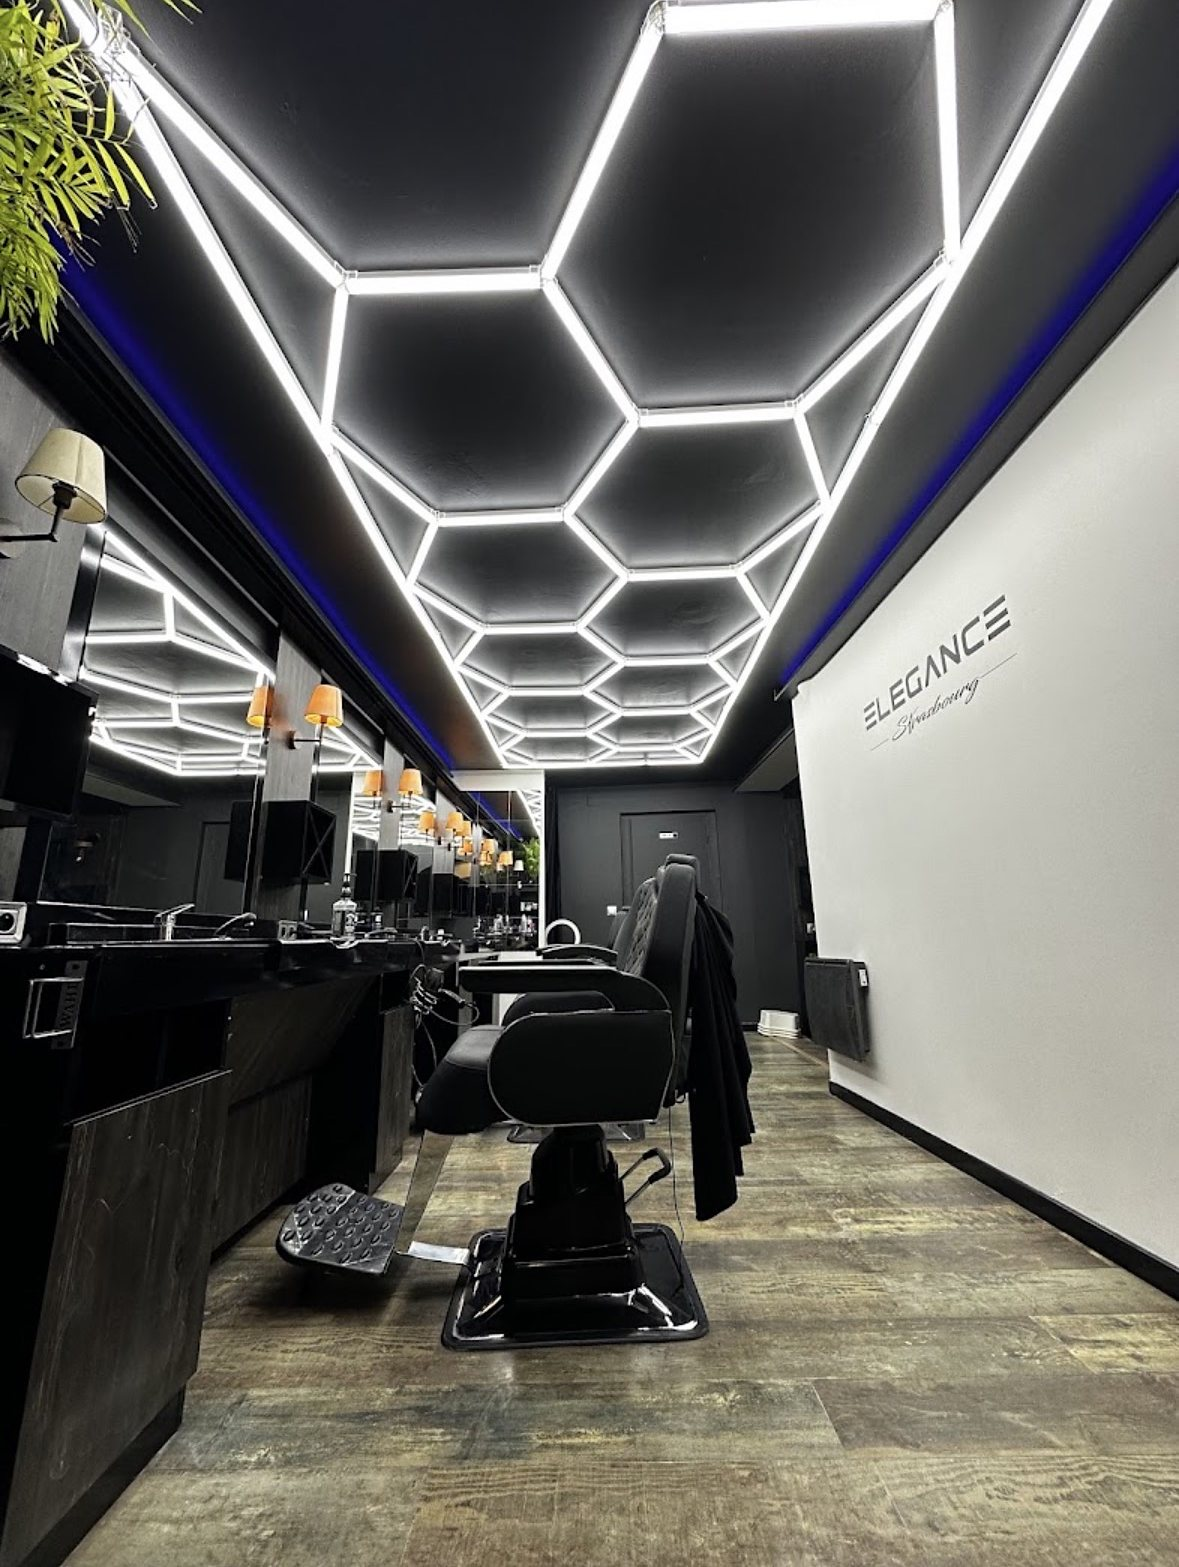
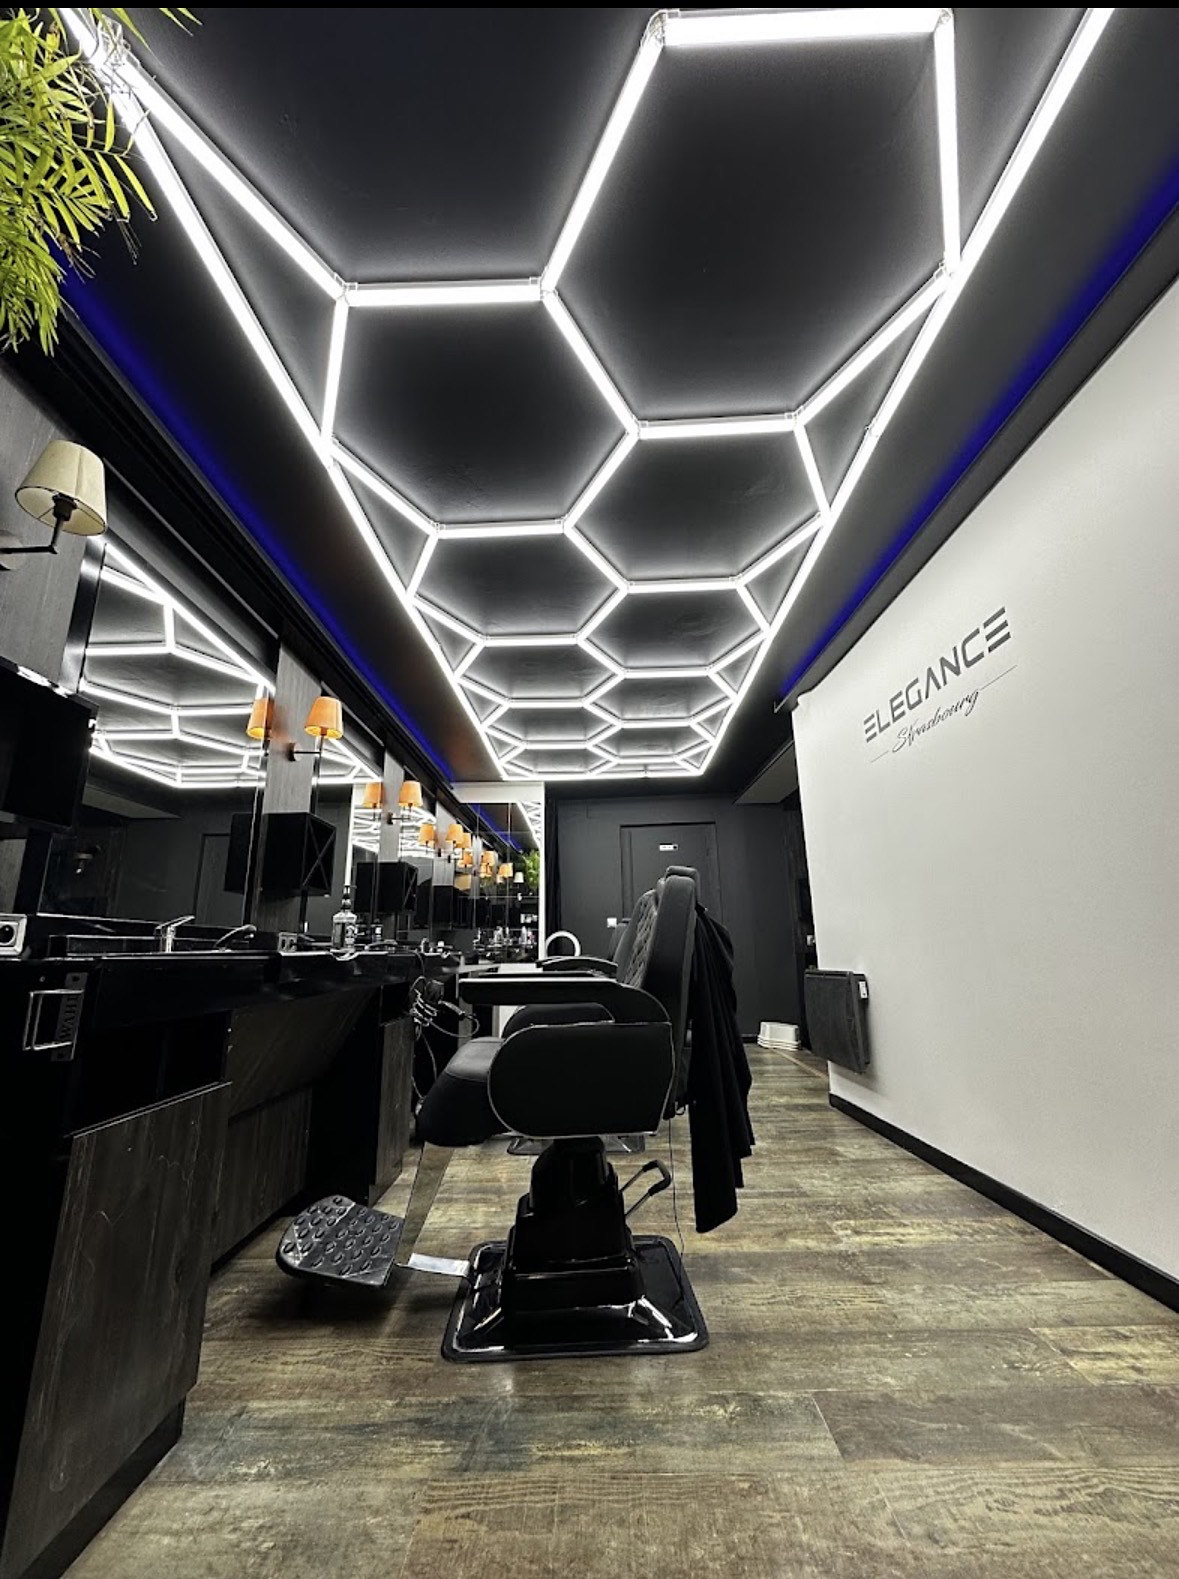
Plus sobre et plus fluide : photos HD, transition marquée, défilement adouci
- Photos des prestations refaites depuis les originaux (1200x1500,
  filigranes effacés, réduction du bruit, netteté) ; salon en pleine
  résolution.
- Transition accueil -> prestations plus marquée : la vidéo se réduit
  davantage (carte arrondie) avant d'être recouverte.
- Boutons et sélections en blanc cassé, violet réservé aux détails ;
  lien « Accueil » retiré du menu.
- Fluidité : défilement adouci (Lenis) à la molette, fonds flous calculés
  à l'avance, assombrissement des bandes par calque au lieu de filtres,
  en-tête sans flou d'arrière-plan.

Claude-Session: https://claude.ai/code/session_01GNP9iCmSgibcJGnuJqLZRc

diff --git a/styles.css b/styles.css
@@ -33,9 +33,14 @@
   --section: clamp(96px, 11vw, 160px);
 }
 
+/* ---------- Défilement adouci (Lenis) ---------- */
+html.lenis, html.lenis body { height: auto; }
+.lenis.lenis-smooth { scroll-behavior: auto !important; }
+.lenis.lenis-stopped { overflow: hidden; }
+
 /* ---------- Base ---------- */
 *, *::before, *::after { box-sizing: border-box; margin: 0; padding: 0; }
-html { scroll-behavior: smooth; -webkit-text-size-adjust: 100%; scroll-padding-top: 80px; }
+html { scroll-behavior: auto; -webkit-text-size-adjust: 100%; scroll-padding-top: 80px; }
 body { background: var(--bg); color: var(--cream); font-family: var(--sans); font-size: 17px; line-height: 1.55; -webkit-font-smoothing: antialiased; overflow-x: hidden; }
 a { color: inherit; text-decoration: none; }
 ul, ol { list-style: none; }
@@ -58,10 +63,10 @@ button { background: none; border: 0; cursor: pointer; }
 
 /* ---------- Boutons ---------- */
 .btn { display: inline-flex; align-items: center; justify-content: center; gap: .55rem; min-height: 50px; padding: .8rem 1.6rem; border-radius: 999px; font-size: .95rem; font-weight: 500; white-space: nowrap; transition: background .35s, color .35s, border-color .35s, transform .35s var(--ease); }
-.btn--gold { background: var(--gold); color: var(--gold-ink); }
-.btn--gold:hover { background: #b289ff; transform: translateY(-1px); }
-.btn--line { border: 1px solid rgba(157, 107, 255, .7); color: var(--gold-2); background: rgba(9, 9, 11, .25); backdrop-filter: blur(6px); -webkit-backdrop-filter: blur(6px); }
-.btn--line:hover { background: var(--gold); border-color: var(--gold); color: var(--gold-ink); }
+.btn--gold { background: var(--cream); color: #0b0b0d; }
+.btn--gold:hover { background: #fff; transform: translateY(-1px); }
+.btn--line { border: 1px solid rgba(244, 243, 247, .45); color: var(--cream); background: rgba(9, 9, 11, .2); }
+.btn--line:hover { background: var(--cream); border-color: var(--cream); color: #0b0b0d; }
 .btn span { transition: transform .35s var(--ease); }
 .btn:hover span { transform: translateX(3px); }
 
@@ -74,7 +79,7 @@ button { background: none; border: 0; cursor: pointer; }
 
 /* ---------- En-tête ---------- */
 .header { position: fixed; z-index: 40; left: 0; right: 0; top: 0; padding-top: env(safe-area-inset-top, 0px); transition: background .5s, border-color .5s; border-bottom: 1px solid transparent; }
-.header.is-solid { background: rgba(9, 9, 11, .78); backdrop-filter: blur(16px); -webkit-backdrop-filter: blur(16px); border-bottom-color: var(--line); }
+.header.is-solid { background: rgba(9, 9, 11, .9); border-bottom-color: var(--line); }
 .header__bar { max-width: 1320px; margin-inline: auto; display: flex; align-items: center; justify-content: space-between; gap: 1.5rem; min-height: 84px; padding-left: var(--gutter); padding-right: var(--gutter-r); transition: min-height .5s var(--ease); }
 .header.is-solid .header__bar { min-height: 70px; }
 .nav { display: flex; gap: 2.4rem; }
@@ -114,7 +119,7 @@ button { background: none; border: 0; cursor: pointer; }
 .hero__script { font-family: var(--script); font-size: clamp(2rem, 3.6vw, 3.3rem); line-height: 1; color: var(--gold); margin-top: clamp(.2rem, 1vh, .6rem); }
 .hero__rule { display: block; width: 64px; height: 1px; margin: clamp(1.4rem, 3vh, 2rem) 0; background: var(--gold); }
 .hero__tag { font-family: var(--serif); font-style: italic; font-size: clamp(1.5rem, 2.4vw, 2.1rem); line-height: 1.2; color: var(--cream); }
-.hero__caps { margin-top: 1.2rem; font-family: var(--serif); font-weight: 500; font-size: .95rem; letter-spacing: .42em; margin-right: -.42em; text-transform: uppercase; color: var(--gold-2); }
+.hero__caps { margin-top: 1.2rem; font-family: var(--serif); font-weight: 500; font-size: .95rem; letter-spacing: .42em; margin-right: -.42em; text-transform: uppercase; color: rgba(244, 243, 247, .62); }
 .hero__caps i { font-style: normal; margin-inline: .2em; opacity: .7; }
 .hero__scroll { z-index: 1; position: absolute; left: 50%; bottom: clamp(18px, 4vh, 36px); translate: -50% 0; width: 1px; height: 54px; background: rgba(244, 243, 247, .2); overflow: hidden; }
 .hero__scroll span { position: absolute; left: 0; top: 0; width: 1px; height: 100%; background: var(--cream); animation: drip 2.4s var(--slow) infinite; }
@@ -137,7 +142,7 @@ button { background: none; border: 0; cursor: pointer; }
 
 /* Passage accueil -> prestations : l'accueil reste fixé et se resserre en carte
    pendant que les prestations montent par-dessus. */
-.hero-stage { position: relative; height: 200vh; height: 200svh; background: var(--bg); }
+.hero-stage { position: relative; height: 230vh; height: 230svh; background: var(--bg); }
 .hero-stage .hero { position: sticky; top: 0; }
 .hero__media { transform-origin: 50% 40%; overflow: hidden; will-change: transform, border-radius; }
 .hero__shade { position: absolute; inset: 0; z-index: 0; background: var(--bg); opacity: 0; pointer-events: none; }
@@ -145,7 +150,7 @@ button { background: none; border: 0; cursor: pointer; }
 .hero-stage + .strips-sec { margin-top: -100vh; margin-top: -100svh; z-index: 2; border-radius: 28px 28px 0 0; overflow: hidden; box-shadow: 0 -40px 90px rgba(0, 0, 0, .65); }
 .intro .strips-sec__title { transition: opacity 1.1s ease .2s, transform 1.2s var(--ease) .2s; }
 .intro .strips-sec:not(.is-in) .strips-sec__title { opacity: 0; transform: translateY(60px); }
-.intro .strip img { transition: transform 1.8s var(--slow), filter .9s; }
+.intro .strip img { transition: transform 1.8s var(--slow); }
 .intro .strips-sec:not(.is-in) .strip img { transform: scale(1.25); }
 .intro .strip__label { transition: opacity .9s ease calc(.3s + var(--k, 0) * 100ms); }
 .intro .strips-sec:not(.is-in) .strip__label { opacity: 0; }
@@ -159,12 +164,14 @@ button { background: none; border: 0; cursor: pointer; }
 .strip { position: relative; isolation: isolate; flex: 1 1 0; min-width: 0; overflow: hidden; cursor: pointer; border-right: 1px solid rgba(0, 0, 0, .6); transition: flex-grow .9s var(--slow); outline-offset: -3px; }
 .strip:last-child { border-right: 0; }
 .strip.is-on { flex-grow: 5.5; cursor: default; }
-.strip img { position: absolute; inset: 0; z-index: -2; width: 100%; height: 100%; object-fit: cover; transform: scale(1.08); filter: brightness(.55) saturate(.85); transition: transform 1.4s var(--slow), filter .9s; }
-.strip.is-on img { transform: scale(1); filter: brightness(.82) saturate(1); }
+.strip img { position: absolute; inset: 0; z-index: -3; width: 100%; height: 100%; object-fit: cover; transform: scale(1.08); transition: transform 1.4s var(--slow); }
+.strip::before { content: ""; position: absolute; inset: 0; z-index: -2; background: #09090b; opacity: .5; transition: opacity .9s; }
+.strip.is-on::before { opacity: .12; }
+.strip:not(.is-on):hover::before { opacity: .32; }
+.strip.is-on img { transform: scale(1); }
 .strip::after { content: ""; position: absolute; inset: 0; z-index: -1; background: linear-gradient(180deg, rgba(9, 9, 11, .55) 0%, rgba(9, 9, 11, 0) 30%, rgba(9, 9, 11, .1) 55%, rgba(9, 9, 11, .88) 100%); }
 .strip__label { position: absolute; left: 50%; bottom: 36px; writing-mode: vertical-rl; transform: translateX(-50%) rotate(180deg); white-space: nowrap; font-size: .98rem; font-weight: 500; transition: opacity .4s; }
 .strip.is-on .strip__label { opacity: 0; }
-.strip:not(.is-on):hover img { filter: brightness(.7) saturate(.95); }
 .strip__body { position: absolute; left: clamp(20px, 3.4vw, 48px); right: clamp(20px, 3vw, 40px); bottom: clamp(28px, 6vh, 64px); max-width: 520px; display: grid; justify-items: start; gap: .7rem; opacity: 0; transform: translateY(16px); transition: opacity .35s, transform .35s; pointer-events: none; }
 .strip.is-on .strip__body { opacity: 1; transform: none; transition: opacity .8s .35s, transform .9s var(--ease) .35s; pointer-events: auto; }
 .strip__title { font-weight: 300; font-size: clamp(2.2rem, 4.2vw, 3.9rem); line-height: 1; letter-spacing: -.03em; }
@@ -193,7 +200,7 @@ button { background: none; border: 0; cursor: pointer; }
    ===================================================================== */
 .show { position: relative; isolation: isolate; overflow: hidden; min-height: 100vh; min-height: 100svh; display: flex; align-items: center; padding-block: 120px 90px; background: var(--bg); }
 .show__bg { position: absolute; inset: -40px; z-index: -1; }
-.show__bg img { position: absolute; inset: 0; width: 100%; height: 100%; object-fit: cover; filter: blur(34px) brightness(.38) saturate(.8); transform: scale(1.1); opacity: 0; transition: opacity 1.4s ease; }
+.show__bg img { position: absolute; inset: 0; width: 100%; height: 100%; object-fit: cover; transform: scale(1.06); opacity: 0; transition: opacity 1.4s ease; }
 .show__bg img.is-on { opacity: 1; }
 .show__bg::after { content: ""; position: absolute; inset: 0; background: radial-gradient(ellipse at 70% 50%, rgba(9, 9, 11, 0), rgba(9, 9, 11, .7)); }
 .show__inner { position: relative; display: grid; grid-template-columns: minmax(0, 5fr) minmax(0, 6fr); gap: clamp(2rem, 5vw, 5rem); align-items: center; }
@@ -246,8 +253,8 @@ button { background: none; border: 0; cursor: pointer; }
 .chip small { display: block; font-size: .78rem; font-weight: 400; color: var(--muted); margin-top: 2px; }
 .chip:hover { border-color: var(--line-2); }
 .chip:disabled { opacity: .32; cursor: default; }
-.chip.is-on { background: var(--gold); color: var(--gold-ink); }
-.chip.is-on small { color: rgba(255, 255, 255, .78); }
+.chip.is-on { background: var(--cream); color: #0b0b0d; }
+.chip.is-on small { color: rgba(11, 11, 13, .6); }
 #pService { display: grid; grid-template-columns: 1fr 1fr; overflow: visible; }
 #pService .chip { display: flex; justify-content: space-between; align-items: baseline; gap: .5rem; text-align: left; }
 #pService .chip small { margin: 0; }
@@ -256,17 +263,17 @@ button { background: none; border: 0; cursor: pointer; }
 #pBarber .chip small { margin: 0; font-size: .8rem; color: var(--muted); white-space: normal; line-height: 1.2; }
 #pBarber .av { width: 54px; height: 54px; border-radius: 50%; display: grid; place-items: center; background: var(--bg-4); border: 1px solid var(--line); font-weight: 500; font-size: 1.1rem; transition: .25s; }
 #pBarber .av--any { color: var(--gold); }
-#pBarber .chip:hover .av { border-color: var(--gold); }
+#pBarber .chip:hover .av { border-color: var(--cream); }
 #pBarber .chip.is-on { color: var(--cream); background: none; }
-#pBarber .chip.is-on .av { background: var(--gold); color: var(--gold-ink); border-color: var(--gold); }
+#pBarber .chip.is-on .av { background: var(--cream); color: #0b0b0d; border-color: var(--cream); }
 #pBarber .chip.is-on small { color: var(--cream); font-weight: 500; }
 .slots { display: grid; grid-template-columns: repeat(auto-fill, minmax(76px, 1fr)); gap: .5rem; }
 .slot { min-height: 48px; border-radius: 12px; background: var(--bg-4); border: 1px solid transparent; font-size: .92rem; font-weight: 500; font-variant-numeric: tabular-nums; transition: .25s; }
 .slot:hover:not(:disabled) { border-color: var(--line-2); }
 .slot:disabled { color: rgba(244, 243, 247, .2); text-decoration: line-through; cursor: default; }
-.slot.is-on { background: var(--gold); color: var(--gold-ink); }
-.phone__confirm { margin-top: 1.7rem; min-height: 56px; border-radius: 999px; background: var(--gold); color: var(--gold-ink); font-size: .97rem; font-weight: 600; transition: background .3s, color .3s; }
-.phone__confirm:hover:not(:disabled) { background: #b289ff; }
+.slot.is-on { background: var(--cream); color: #0b0b0d; }
+.phone__confirm { margin-top: 1.7rem; min-height: 56px; border-radius: 999px; background: var(--cream); color: #0b0b0d; font-size: .97rem; font-weight: 600; transition: background .3s, color .3s; }
+.phone__confirm:hover:not(:disabled) { background: #fff; }
 .phone__confirm:disabled { background: var(--bg-4); color: var(--faint); cursor: default; }
 .phone__confirm--ghost { background: transparent; color: var(--cream); border: 1px solid var(--line-2); }
 .phone__confirm--ghost:hover:not(:disabled) { background: var(--bg-4); }
@@ -340,7 +347,7 @@ button { background: none; border: 0; cursor: pointer; }
   .nav.is-open { opacity: 1; visibility: visible; transition: opacity .4s; }
   .nav a { font-size: clamp(2.2rem, 9vw, 3rem); font-weight: 300; letter-spacing: -.03em; padding: .2rem 0; opacity: 1; }
   .nav a::after { display: none; }
-  .nav .nav__cta { display: inline-flex; align-self: flex-start; margin-top: 1.8rem; font-size: 1rem; font-weight: 500; letter-spacing: 0; padding: .95rem 1.6rem; border-radius: 999px; background: var(--gold); color: var(--gold-ink); }
+  .nav .nav__cta { display: inline-flex; align-self: flex-start; margin-top: 1.8rem; font-size: 1rem; font-weight: 500; letter-spacing: 0; padding: .95rem 1.6rem; border-radius: 999px; background: var(--cream); color: #0b0b0d; }
   .header:has(.nav.is-open) { background: transparent; backdrop-filter: none; -webkit-backdrop-filter: none; border-bottom-color: transparent; }
 
   .strips-sec { height: auto; max-height: none; min-height: 0; padding-top: var(--section); }
@@ -370,7 +377,7 @@ button { background: none; border: 0; cursor: pointer; }
   body:has(.nav.is-open) .mbar { transform: translateY(110%); }
   .mbar a { display: flex; align-items: center; justify-content: center; min-height: 50px; padding: 0 1.4rem; border-radius: 999px; font-weight: 500; }
   .mbar__call { border: 1px solid var(--line-2); }
-  .mbar__book { background: var(--gold); color: var(--gold-ink); }
+  .mbar__book { background: var(--cream); color: #0b0b0d; }
   .footer { padding-bottom: 80px; }
 }
 @media (max-width: 720px) {

diff --git a/index.html b/index.html
@@ -44,7 +44,6 @@
   <div class="header__bar">
     <a href="#accueil" class="logo" aria-label="Elegance Strasbourg, accueil"><span class="logo__word">ELEGANCE</span><span class="logo__script">Strasbourg</span></a>
     <nav class="nav" id="nav" aria-label="Navigation principale">
-      <a href="#accueil">Accueil</a>
       <a href="#prestations">Prestations</a>
       <a href="#equipe">L’équipe</a>
       <a href="#realisations">Le travail</a>
@@ -85,7 +84,7 @@
     <h2 class="strips-sec__title t-big">Nos prestations,<br><b>nos tarifs.</b></h2>
     <div class="strips" id="strips">
       <article class="strip is-on" tabindex="0">
-        <img src="images/svc-coupe.jpg" alt="" loading="lazy">
+        <img decoding="async" src="images/svc-coupe.jpg" alt="" loading="lazy">
         <span class="strip__label">Coupe homme</span>
         <div class="strip__body">
           <p class="eyebrow">30 min · 18 €</p>
@@ -95,7 +94,7 @@
         </div>
       </article>
       <article class="strip" tabindex="0">
-        <img src="images/look-platine.jpg" alt="" loading="lazy">
+        <img decoding="async" src="images/svc-coupe-barbe.jpg" alt="" loading="lazy">
         <span class="strip__label">Coupe & barbe</span>
         <div class="strip__body">
           <p class="eyebrow">30 min · 28 €</p>
@@ -105,7 +104,7 @@
         </div>
       </article>
       <article class="strip" tabindex="0">
-        <img src="images/card-barbe.jpg" alt="" loading="lazy">
+        <img decoding="async" src="images/svc-barbe.jpg" alt="" loading="lazy">
         <span class="strip__label">Taillage barbe</span>
         <div class="strip__body">
           <p class="eyebrow">15 min · 12 €</p>
@@ -115,7 +114,7 @@
         </div>
       </article>
       <article class="strip" tabindex="0">
-        <img src="images/look-texture.jpg" alt="" loading="lazy">
+        <img decoding="async" src="images/svc-soin.jpg" alt="" loading="lazy">
         <span class="strip__label">Soin du visage</span>
         <div class="strip__body">
           <p class="eyebrow">30 min · 25 €</p>
@@ -125,7 +124,7 @@
         </div>
       </article>
       <article class="strip" tabindex="0">
-        <img src="images/look-boucles.jpg" alt="" loading="lazy">
+        <img decoding="async" src="images/svc-coloration.jpg" alt="" loading="lazy">
         <span class="strip__label">Coloration</span>
         <div class="strip__body">
           <p class="eyebrow">30 min · 15 €</p>
@@ -152,10 +151,10 @@
   <!-- ================= LE TRAVAIL ================= -->
   <section class="show" id="realisations" data-rail="Le travail">
     <div class="show__bg" aria-hidden="true">
-      <img src="videos/travail-tresses.jpg" alt="" class="is-on">
-      <img src="videos/travail-rasoir.jpg" alt="">
-      <img src="videos/travail-platine.jpg" alt="">
-      <img src="videos/travail-nuque.jpg" alt="">
+      <img src="videos/travail-tresses-flou.jpg" alt="" class="is-on">
+      <img src="videos/travail-rasoir-flou.jpg" alt="">
+      <img src="videos/travail-platine-flou.jpg" alt="">
+      <img src="videos/travail-nuque-flou.jpg" alt="">
     </div>
     <div class="wrap show__inner">
       <div class="show__text">
@@ -248,7 +247,7 @@
   <!-- ================= LE SALON ================= -->
   <section class="salon" id="salon" data-rail="Le salon">
     <figure class="salon__photo">
-      <img src="images/salon.jpg" alt="Le salon Elegance : plafond lumineux en nid d’abeille, fauteuil de barbier et miroirs" loading="lazy">
+      <img decoding="async" src="images/salon.jpg" alt="Le salon Elegance : plafond lumineux en nid d’abeille, fauteuil de barbier et miroirs" loading="lazy">
     </figure>
     <div class="salon__text">
       <p class="eyebrow" data-reveal>Le salon</p>
@@ -290,6 +289,7 @@
 
 <script src="config.js"></script>
 <script src="https://cdn.jsdelivr.net/npm/@supabase/supabase-js@2.45.4/dist/umd/supabase.js"></script>
+<script src="https://cdn.jsdelivr.net/npm/lenis@1.1.13/dist/lenis.min.js"></script>
 <script src="script.js"></script>
 </body>
 </html>

diff --git a/script.js b/script.js
@@ -8,6 +8,19 @@ const $$ = (s, el = document) => [...el.querySelectorAll(s)];
 const pad = (n) => String(n).padStart(2, "0");
 const reduced = matchMedia("(prefers-reduced-motion: reduce)").matches;
 
+// ===================== Défilement adouci =====================
+// Molette et pavé tactile glissent en douceur ; le toucher reste natif sur téléphone.
+const lenis = (!reduced && window.Lenis) ? new window.Lenis({ lerp: .085, wheelMultiplier: .9 }) : null;
+if (lenis) {
+  const raf = (t) => { lenis.raf(t); requestAnimationFrame(raf); };
+  requestAnimationFrame(raf);
+  document.addEventListener("click", (e) => {
+    const a = e.target.closest('a[href^="#"]'); if (!a) return;
+    const id = a.getAttribute("href"), el = id.length > 1 && document.querySelector(id); if (!el) return;
+    e.preventDefault(); lenis.scrollTo(el, { offset: id === "#accueil" ? 0 : -70, duration: 1.4 });
+  });
+}
+
 // ===================== Header, menu, lien actif =====================
 // Un seul calcul par image affichée ; positions des sections mesurées une fois (et au redimensionnement).
 const header = $("#header"), nav = $("#nav"), burger = $("#burger");
@@ -32,7 +45,7 @@ measureNav(); onScroll();
 const setMenu = (open) => {
   nav.classList.toggle("is-open", open);
   burger.setAttribute("aria-expanded", open);
-  document.body.style.overflow = open ? "hidden" : "";
+  document.body.style.overflow = open ? "hidden" : ""; if (lenis) open ? lenis.stop() : lenis.start();
 };
 burger.addEventListener("click", () => setMenu(!nav.classList.contains("is-open")));
 nav.addEventListener("click", (e) => { if (e.target.closest("a")) setMenu(false); });
@@ -268,15 +281,15 @@ document.addEventListener("click", (e) => {
   const media = $(".hero__media"), center = $(".hero__center"), cue = $(".hero__scroll"), shade = $("#heroShade");
   let last = -1;
   scrollWork.push(() => {
-    const p = Math.min(1, Math.max(0, scrollY / innerHeight));
+    const p = Math.min(1.3, Math.max(0, scrollY / innerHeight));
     if (Math.abs(p - last) < .001) return; last = p;
-    const q = Math.min(1, p / .75), e = q * q * (3 - 2 * q);   // départ et arrivée en douceur
-    media.style.transform = `scale(${(1 - e * .2).toFixed(4)})`;
-    media.style.borderRadius = `${(e * 32).toFixed(1)}px`;
+    const q = Math.min(1, p / 1.1), e = q * q * (3 - 2 * q);   // départ et arrivée en douceur
+    media.style.transform = `translate3d(0,${(-e * 3).toFixed(2)}vh,0) scale(${(1 - e * .38).toFixed(4)})`;
+    media.style.borderRadius = `${(e * 36).toFixed(1)}px`;
     center.style.opacity = Math.max(0, 1 - p * 1.8).toFixed(3);
-    center.style.transform = `translate3d(0,${(-p * 90).toFixed(1)}px,0)`;
+    center.style.transform = `translate3d(0,${(-p * 90).toFixed(1)}px,0) scale(${(1 - Math.min(p, 1) * .08).toFixed(4)})`;
     cue.style.opacity = Math.max(0, 1 - p * 4).toFixed(3);
-    shade.style.opacity = (e * .7).toFixed(3);
+    shade.style.opacity = (e * .55).toFixed(3);
   });
 })();
 
